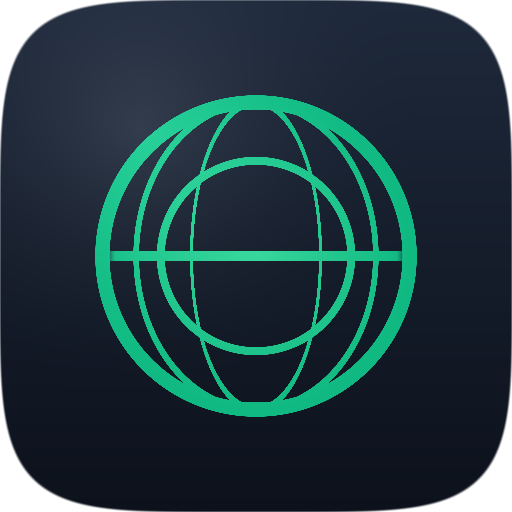
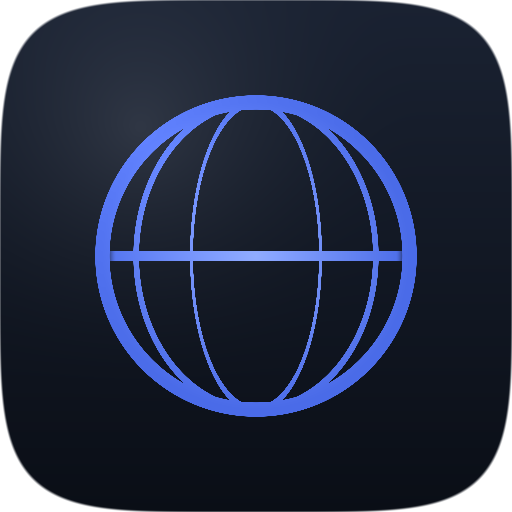
style: 换配色 —— 祖母绿 → 雾蓝紫
旧版的祖母绿饱和度太高、辉光又重，整体偏"电竞外设"。新版：

- 底色改冷灰蓝（#0B0E14），比原来的纯黑多一点色相，卡片与线条跟着挪
- 品牌色换成雾蓝紫 #6B8AFD（渐变亮端 #8AA4FF），辉光收敛到只在「已连接」时出现
- 语义色一起降饱和：警告 #E4B363、危险 #E8756F，不再刺眼
- 规则页的「直连」标签从蓝改成青（#7FC8D8）：品牌色变成蓝之后，
  直连和代理两个标签会撞成同一个色
- 按钮上的文字色跟着换（#0A1230），保证浅色底上的对比度

同一套色值贯穿四处，少改一处就会立刻显得不搭，所以一起改：
- App 界面（app/ui/index.html）
- 落地页（docs/index.html）+ 文档里的令牌说明
- App 图标 —— 改 app/make-icon.py 的 RGB 常量并重新生成三档尺寸
- 社交预览图（重新渲染）+ README 徽章的 shields 色值

验证：Playwright 逐页截图看（连接页 / 规则页 / 落地页），控制台 0 报错；
205 个测试通过。App 已用新图标重新打包。

Changed region(s): [[0.1875, 0.1875, 0.8125, 0.8125]]

diff --git a/app/ui/index.html b/app/ui/index.html
@@ -14,22 +14,22 @@
      --------------------------------------------------------------- */
   :root {
     /* 层次：越靠近内容的越亮，靠"表面明度"而不是描边来分层 */
-    --bg:        #0a0c11;
-    --surface:   #12151d;
-    --surface-2: #171b25;
-    --surface-3: #1e2330;
-    --line:      #242a36;
-    --line-soft: #1c222c;
+    --bg:        #0B0E14;
+    --surface:   #12161F;
+    --surface-2: #181D28;
+    --surface-3: #212734;
+    --line:      #252C3A;
+    --line-soft: #1B212C;
 
-    --text:      #eef1f6;
-    --text-dim:  #8b93a3;
-    --text-faint:#5c6474;
+    --text:      #E9EDF6;
+    --text-dim:  #8B94A7;
+    --text-faint:#5A6478;
 
-    --brand:     #3ddc97;   /* 与 App 图标同色 */
-    --brand-dim: #1f8f63;
-    --info:      #5b8cff;
-    --warn:      #f2b544;
-    --danger:    #ff6b6b;
+    --brand:     #6B8AFD;   /* 与 App 图标同色 */
+    --brand-dim: #3F5BD6;
+    --info:      #6B8AFD;
+    --warn:      #E4B363;
+    --danger:    #E8756F;
 
     --r-lg: 16px;
     --r-md: 11px;
@@ -44,7 +44,7 @@
   body {
     margin: 0;
     background:
-      radial-gradient(1200px 600px at 50% -20%, rgba(61,220,151,.055), transparent 60%),
+      radial-gradient(1200px 600px at 50% -20%, rgba(107,138,253,.055), transparent 60%),
       var(--bg);
     color: var(--text);
     font: 14px/1.6 -apple-system, "PingFang SC", "SF Pro Text", "Helvetica Neue", sans-serif;
@@ -74,11 +74,11 @@
   }
   .pill i { width: 6px; height: 6px; border-radius: 50%; background: var(--text-faint);
             transition: background .25s, box-shadow .25s; }
-  .pill.ok    { color: #a9f0cf; border-color: rgba(61,220,151,.35); background: rgba(61,220,151,.10); }
+  .pill.ok    { color: #B9C8FF; border-color: rgba(107,138,253,.35); background: rgba(107,138,253,.10); }
   .pill.ok i  { background: var(--brand); box-shadow: 0 0 8px var(--brand); }
-  .pill.busy  { color: #cfe0ff; border-color: rgba(91,140,255,.35); background: rgba(91,140,255,.10); }
+  .pill.busy  { color: #CFDCFF; border-color: rgba(107,138,253,.35); background: rgba(107,138,253,.10); }
   .pill.busy i{ background: var(--info); box-shadow: 0 0 8px var(--info); animation: breathe 1.4s ease-in-out infinite; }
-  .pill.warn  { color: #ffe0ae; border-color: rgba(242,181,68,.35); background: rgba(242,181,68,.10); }
+  .pill.warn  { color: #F2DCB4; border-color: rgba(242,181,68,.35); background: rgba(242,181,68,.10); }
   .pill.warn i{ background: var(--warn); box-shadow: 0 0 8px var(--warn); }
   @keyframes breathe { 0%,100% { opacity: 1 } 50% { opacity: .3 } }
   .ver { font: 11px ui-monospace, SFMono-Regular, Menlo, monospace; color: var(--text-faint); }
@@ -165,34 +165,34 @@
     display: inline-flex; align-items: center; gap: 7px;
     transition: background .16s, border-color .16s, transform .1s, opacity .16s;
   }
-  button.btn:hover:not(:disabled) { background: var(--surface-3); border-color: #2d3442; }
+  button.btn:hover:not(:disabled) { background: var(--surface-3); border-color: #2E3646; }
   button.btn:active:not(:disabled) { transform: translateY(1px); }
   button.btn:disabled { opacity: .45; cursor: default; }
   button.btn svg { width: 15px; height: 15px; stroke: currentColor; fill: none;
                    stroke-width: 1.7; stroke-linecap: round; stroke-linejoin: round; }
   button.btn.primary {
-    background: linear-gradient(180deg, #46e6a3, var(--brand)); color: #06231a;
+    background: linear-gradient(180deg, #8AA4FF, var(--brand)); color: #0A1230;
     border-color: rgba(0,0,0,.25); font-weight: 650; width: 100%;
     justify-content: center; padding: 14px; font-size: 14.5px; border-radius: 13px;
-    box-shadow: 0 8px 22px -10px rgba(61,220,151,.7), inset 0 1px 0 rgba(255,255,255,.25);
+    box-shadow: 0 8px 22px -10px rgba(107,138,253,.7), inset 0 1px 0 rgba(255,255,255,.25);
   }
   /* 主按钮的悬停/按下必须**自己声明**：通用规则 `button.btn:hover:not(:disabled)`
      权重比 `button.btn.primary` 高（多一个 :not 伪类），会把绿色渐变盖成深灰——
      表现就是"悬停后按钮变灰、底部还留着一道绿光"（用户截图报过）。 */
   button.btn.primary:hover:not(:disabled) {
-    background: linear-gradient(180deg, #55f0ae, #3ee6a0);
+    background: linear-gradient(180deg, #9BB2FF, #7E9BFF);
     border-color: rgba(0,0,0,.25);
   }
   button.btn.primary:active:not(:disabled) {
-    background: linear-gradient(180deg, #3ddc97, #35cd8c);
+    background: linear-gradient(180deg, #6B8AFD, #5A7BEC);
   }
   button.btn.primary.off {
     background: var(--surface-3); color: var(--text); border-color: var(--line);
     box-shadow: none; font-weight: 550;
   }
   button.btn.primary.off:hover:not(:disabled) { background: var(--surface-3); filter: brightness(1.15); }
-  button.btn.danger { color: #ffb3b3; border-color: rgba(255,107,107,.28); }
-  button.btn.danger:hover:not(:disabled) { background: rgba(255,107,107,.12); }
+  button.btn.danger { color: #EBA3A3; border-color: rgba(232,117,111,.28); }
+  button.btn.danger:hover:not(:disabled) { background: rgba(232,117,111,.12); }
   .spin { width: 13px; height: 13px; border-radius: 50%;
           border: 2px solid rgba(0,0,0,.25); border-top-color: currentColor;
           animation: rot .7s linear infinite; }
@@ -222,7 +222,7 @@
      --------------------------------------------------------------- */
   .switch { display: flex; align-items: center; gap: 12px; padding: 9px 0; cursor: pointer; }
   .switch:hover .label { color: var(--text); }
-  .switch:hover .track { border-color: #3a4252; }
+  .switch:hover .track { border-color: #3C4557; }
   .switch:active .track > i { transform: scale(.9); }
   .switch.on:active .track > i { transform: translateX(14px) scale(.9); }
   .switch + .switch { border-top: 1px solid var(--line-soft); }
@@ -230,9 +230,9 @@
                    background: var(--surface-3); border: 1px solid var(--line);
                    position: relative; transition: background .22s, border-color .22s; }
   .switch .track > i { position: absolute; top: 2px; left: 2px; width: 14px; height: 14px;
-                       border-radius: 50%; background: #6b7280;
+                       border-radius: 50%; background: #6E7686;
                        transition: transform .24s cubic-bezier(.22,1,.36,1), background .22s; }
-  .switch.on .track { background: rgba(61,220,151,.22); border-color: rgba(61,220,151,.5); }
+  .switch.on .track { background: rgba(107,138,253,.22); border-color: rgba(107,138,253,.5); }
   .switch.on .track > i { transform: translateX(14px); background: var(--brand); }
   .switch .label { flex: 1; font-size: 13px; }
   .switch .hint { color: var(--text-faint); font-size: 11.5px; line-height: 1.45; }
@@ -249,9 +249,9 @@
          max-height: 200px; overflow: auto; }
   #log div { padding: 1.5px 0; color: var(--text-faint); white-space: pre-wrap;
              word-break: break-all; }
-  #log div.err { color: #ffb3b3; }
-  #log div.warn { color: #ffd894; }
-  #log time { color: #414855; margin-right: 7px; }
+  #log div.err { color: #EBA3A3; }
+  #log div.warn { color: #EDD3A0; }
+  #log time { color: #434B5A; margin-right: 7px; }
 
   /* ---------------------------------------------------------------
      表单
@@ -269,10 +269,10 @@
     border: 1px solid var(--line); background: var(--surface-2); color: var(--text);
     font-size: 13px; font-family: inherit;
   }
-  select:hover { border-color: #333b4a; }
-  input:focus { outline: none; border-color: rgba(91,140,255,.6);
-                box-shadow: 0 0 0 3px rgba(91,140,255,.13); }
-  input:hover:not(:focus) { border-color: #333b4a; }
+  select:hover { border-color: #353E50; }
+  input:focus { outline: none; border-color: rgba(107,138,253,.6);
+                box-shadow: 0 0 0 3px rgba(107,138,253,.13); }
+  input:hover:not(:focus) { border-color: #353E50; }
 
   /* ---------------------------------------------------------------
      规则页
@@ -286,9 +286,9 @@
   .rule-item .tag { font-size: 10.5px; letter-spacing: .06em; padding: 2px 7px;
                     border-radius: 6px; border: 1px solid var(--line);
                     color: var(--text-dim); margin-right: 9px; }
-  .rule-item .tag.DIRECT { color: #8fd4ff; border-color: rgba(91,140,255,.32); }
-  .rule-item .tag.PROXY  { color: var(--brand); border-color: rgba(61,220,151,.32); }
-  .rule-item .tag.REJECT { color: #ffb3b3; border-color: rgba(255,107,107,.3); }
+  .rule-item .tag.DIRECT { color: #7FC8D8; border-color: rgba(107,138,253,.32); }
+  .rule-item .tag.PROXY  { color: var(--brand); border-color: rgba(107,138,253,.32); }
+  .rule-item .tag.REJECT { color: #EBA3A3; border-color: rgba(232,117,111,.3); }
   .empty { color: var(--text-faint); font-size: 12.5px; padding: 14px 0; }
   .rs-meta { font-size: 11.5px; color: var(--text-faint); font-variant-numeric: tabular-nums; }
   .hint { color: var(--text-dim); font-size: 12.5px; line-height: 1.65; margin: 0; }
@@ -326,8 +326,8 @@
 
   .banner { display: flex; gap: 10px; align-items: flex-start;
             border-radius: var(--r-md); padding: 11px 14px; margin-bottom: 14px;
-            border: 1px solid rgba(255,107,107,.28); background: rgba(255,107,107,.09);
-            color: #ffc4c4; font-size: 12.5px; }
+            border: 1px solid rgba(232,117,111,.28); background: rgba(232,117,111,.09);
+            color: #EFB8B8; font-size: 12.5px; }
   .banner svg { width: 16px; height: 16px; flex: none; margin-top: 1px;
                 stroke: var(--danger); fill: none; stroke-width: 1.8;
                 stroke-linecap: round; stroke-linejoin: round; }
@@ -336,7 +336,7 @@
   /* 骨架屏：第一次拿到状态前别闪一排 "—" */
   body:not(.ready) .v {
     color: transparent; border-radius: 5px; min-width: 64px;
-    background: linear-gradient(90deg, #1b202b 25%, #232937 50%, #1b202b 75%);
+    background: linear-gradient(90deg, #191E29 25%, #242B3A 50%, #191E29 75%);
     background-size: 200% 100%; animation: shimmer 1.4s linear infinite;
   }
   @keyframes shimmer { from { background-position: 200% 0 } to { background-position: -200% 0 } }
@@ -763,7 +763,7 @@ function drawSpark() {
     ctx.beginPath();
     ctx.moveTo(0, h - 6);
     ctx.lineTo(w, h - 6);
-    ctx.strokeStyle = "rgba(61,220,151,.22)";
+    ctx.strokeStyle = "rgba(107,138,253,.22)";
     ctx.lineWidth = 1.5;
     ctx.stroke();
     return;
@@ -775,19 +775,19 @@ function drawSpark() {
   ctx.beginPath();
   points.forEach(([x, y], i) => i ? ctx.lineTo(x, y) : ctx.moveTo(x, y));
   const grad = ctx.createLinearGradient(0, 0, 0, h);
-  grad.addColorStop(0, "rgba(61,220,151,.30)");
-  grad.addColorStop(1, "rgba(61,220,151,0)");
+  grad.addColorStop(0, "rgba(107,138,253,.30)");
+  grad.addColorStop(1, "rgba(107,138,253,0)");
   ctx.lineTo(w, h); ctx.lineTo(0, h); ctx.closePath();
   ctx.fillStyle = grad; ctx.fill();
 
   ctx.beginPath();
   points.forEach(([x, y], i) => i ? ctx.lineTo(x, y) : ctx.moveTo(x, y));
-  ctx.strokeStyle = "#3ddc97"; ctx.lineWidth = 2; ctx.lineJoin = "round";
+  ctx.strokeStyle = "#6B8AFD"; ctx.lineWidth = 2; ctx.lineJoin = "round";
   ctx.stroke();
 
   const [lx, ly] = points[points.length - 1];
   ctx.beginPath(); ctx.arc(lx, ly, 3, 0, Math.PI * 2);
-  ctx.fillStyle = "#3ddc97"; ctx.fill();
+  ctx.fillStyle = "#6B8AFD"; ctx.fill();
 }
 
 /* ---------- 渲染 ---------- */

diff --git a/tools/social-preview.html b/tools/social-preview.html
@@ -12,15 +12,15 @@
 <meta charset="utf-8">
 <style>
   :root {
-    --bg: #0a0c11; --surface: #12151d; --surface-2: #171b25; --line: #242a36;
-    --text: #eef1f6; --dim: #8b93a3; --faint: #5c6474; --brand: #3ddc97;
+    --bg: #0B0E14; --surface: #12161F; --surface-2: #181D28; --line: #252C3A;
+    --text: #E9EDF6; --dim: #8B94A7; --faint: #5A6478; --brand: #6B8AFD;
   }
   * { box-sizing: border-box; margin: 0; padding: 0; }
   html, body { width: 1280px; height: 640px; overflow: hidden; }
   body {
     background:
-      radial-gradient(900px 460px at 22% 6%, rgba(61,220,151,.13), transparent 60%),
-      radial-gradient(700px 420px at 96% 100%, rgba(61,220,151,.06), transparent 62%),
+      radial-gradient(900px 460px at 22% 6%, rgba(107,138,253,.13), transparent 60%),
+      radial-gradient(700px 420px at 96% 100%, rgba(107,138,253,.06), transparent 62%),
       var(--bg);
     color: var(--text);
     font: 16px/1.6 -apple-system, "PingFang SC", "SF Pro Text", "Helvetica Neue", sans-serif;
@@ -33,9 +33,9 @@
   .mark { display: flex; align-items: center; gap: 15px; margin-bottom: 40px; }
   .glyph {
     width: 60px; height: 60px; border-radius: 18px; display: grid; place-items: center;
-    background: linear-gradient(160deg, rgba(61,220,151,.26), rgba(61,220,151,.06));
-    border: 1px solid rgba(61,220,151,.3);
-    box-shadow: 0 14px 40px -16px rgba(61,220,151,.5), inset 0 1px 0 rgba(255,255,255,.07);
+    background: linear-gradient(160deg, rgba(107,138,253,.26), rgba(107,138,253,.06));
+    border: 1px solid rgba(107,138,253,.3);
+    box-shadow: 0 14px 40px -16px rgba(107,138,253,.5), inset 0 1px 0 rgba(255,255,255,.07);
   }
   .glyph svg { width: 32px; height: 32px; stroke: var(--brand); fill: none;
                stroke-width: 1.7; stroke-linecap: round; stroke-linejoin: round; }
@@ -49,7 +49,7 @@
   .sub code {
     font: 15px ui-monospace, SFMono-Regular, Menlo, monospace;
     background: var(--surface-2); border: 1px solid var(--line);
-    padding: 2px 7px; border-radius: 7px; color: #cfe9dd;
+    padding: 2px 7px; border-radius: 7px; color: #D3DDF5;
   }
   .stats { display: flex; gap: 34px; margin-top: 42px; }
   .stat .v { font: 25px/1 ui-monospace, SFMono-Regular, Menlo, monospace;
@@ -65,9 +65,9 @@
   .ring { width: 168px; height: 168px; margin: 0 auto 22px; position: relative;
           display: grid; place-items: center; }
   .ring .halo { position: absolute; inset: 0; border-radius: 50%;
-                box-shadow: 0 0 70px 10px rgba(61,220,151,.3); }
+                box-shadow: 0 0 70px 10px rgba(107,138,253,.3); }
   .ring svg { width: 132px; height: 132px; transform: rotate(-90deg); }
-  .ring .track { fill: none; stroke: #1d2431; stroke-width: 3; }
+  .ring .track { fill: none; stroke: #1B2130; stroke-width: 3; }
   .ring .arc { fill: none; stroke: var(--brand); stroke-width: 3; stroke-linecap: round;
                stroke-dasharray: 377; stroke-dashoffset: 34; }
   .ring .face { position: absolute; display: grid; place-items: center; }
@@ -81,7 +81,7 @@
   .row { display: flex; justify-content: space-between; align-items: center;
          font-size: 13.5px; padding: 12px 2px; border-bottom: 1px solid rgba(36,42,54,.6); }
   .row span:first-child { color: var(--faint); }
-  .row span:last-child { color: #c9d2e0; font-family: ui-monospace, Menlo, monospace; font-size: 12.5px; }
+  .row span:last-child { color: #C6D0E2; font-family: ui-monospace, Menlo, monospace; font-size: 12.5px; }
   .row .ok { color: var(--brand) !important; }
 </style>
 </head>

diff --git a/docs/index.html b/docs/index.html
@@ -14,13 +14,13 @@
 <meta name="twitter:card" content="summary_large_image">
 <style>
   :root {
-    --bg: #0a0c11; --surface: #12151d; --surface-2: #171b25; --line: #242a36;
-    --text: #eef1f6; --dim: #8b93a3; --faint: #5c6474; --brand: #3ddc97;
+    --bg: #0B0E14; --surface: #12161F; --surface-2: #181D28; --line: #252C3A;
+    --text: #E9EDF6; --dim: #8B94A7; --faint: #5A6478; --brand: #6B8AFD;
   }
   * { box-sizing: border-box; }
   body {
     margin: 0; background:
-      radial-gradient(1100px 520px at 50% -12%, rgba(61,220,151,.07), transparent 62%),
+      radial-gradient(1100px 520px at 50% -12%, rgba(107,138,253,.07), transparent 62%),
       var(--bg);
     color: var(--text);
     font: 16px/1.7 -apple-system, "PingFang SC", "SF Pro Text", "Helvetica Neue", sans-serif;
@@ -37,7 +37,7 @@
   code {
     font: 13px ui-monospace, SFMono-Regular, Menlo, monospace;
     background: var(--surface-2); border: 1px solid var(--line);
-    padding: 1px 6px; border-radius: 6px; color: #cfe9dd;
+    padding: 1px 6px; border-radius: 6px; color: #D3DDF5;
   }
   section { padding: 56px 0; border-top: 1px solid var(--line); }
   section:first-of-type { border-top: none; }

diff --git a/app/make-icon.py b/app/make-icon.py
@@ -23,10 +23,10 @@ import png  # 来自 pypng，纯 Python
 
 DEFAULT_SIZE = 1024
 
-BG_TOP = (30, 41, 59)  # slate-800
-BG_BOTTOM = (12, 17, 27)  # 更深的底
-GLOBE = (52, 211, 153)  # emerald-400
-GLOBE_DIM = (16, 185, 129)  # emerald-500
+BG_TOP = (26, 34, 50)  # 冷灰蓝，和界面底色同一族
+BG_BOTTOM = (10, 14, 22)  # 更深的底
+GLOBE = (140, 168, 255)  # 品牌色亮端 #8CA8FF
+GLOBE_DIM = (74, 107, 232)  # 品牌色暗端 #4A6BE8
 
 
 def smoothstep(edge0: float, edge1: float, x: float) -> float:

diff --git a/README.md b/README.md
@@ -2,13 +2,13 @@
 
 <p>
   <a href="https://github.com/cinqs/yi/actions/workflows/ci.yml"><img alt="CI" src="https://img.shields.io/github/actions/workflow/status/cinqs/yi/ci.yml?branch=main&style=flat-square&label=CI"></a>
-  <a href="https://cinqs.github.io/yi"><img alt="Docs" src="https://img.shields.io/badge/docs-GitHub%20Pages-3ddc97?style=flat-square"></a>
-  <a href="LICENSE"><img alt="License" src="https://img.shields.io/badge/license-MIT-3ddc97?style=flat-square"></a>
+  <a href="https://cinqs.github.io/yi"><img alt="Docs" src="https://img.shields.io/badge/docs-GitHub%20Pages-6B8AFD?style=flat-square"></a>
+  <a href="LICENSE"><img alt="License" src="https://img.shields.io/badge/license-MIT-6B8AFD?style=flat-square"></a>
   <img alt="Python" src="https://img.shields.io/badge/python-3.12+-3776ab?style=flat-square&logo=python&logoColor=white">
   <img alt="macOS" src="https://img.shields.io/badge/macOS-11+-000000?style=flat-square&logo=apple&logoColor=white">
-  <img alt="Runtime deps" src="https://img.shields.io/badge/runtime%20deps-0-3ddc97?style=flat-square">
-  <img alt="App size" src="https://img.shields.io/badge/app-%3C1%20MB-3ddc97?style=flat-square">
-  <a href="https://github.com/cinqs/yi/wiki"><img alt="Wiki" src="https://img.shields.io/badge/wiki-%E4%B8%AD%E6%96%87-3ddc97?style=flat-square"></a>
+  <img alt="Runtime deps" src="https://img.shields.io/badge/runtime%20deps-0-6B8AFD?style=flat-square">
+  <img alt="App size" src="https://img.shields.io/badge/app-%3C1%20MB-6B8AFD?style=flat-square">
+  <a href="https://github.com/cinqs/yi/wiki"><img alt="Wiki" src="https://img.shields.io/badge/wiki-%E4%B8%AD%E6%96%87-6B8AFD?style=flat-square"></a>
 </p>
 
 **驿 (Yi)** 帮你用**一年几十块**跑起一台属于自己的代理：

diff --git a/docs/design.md b/docs/design.md
@@ -8,11 +8,17 @@
 颜色只在一层定义，组件里不出现裸色值：
 
 ```
-背景     --bg #0a0c11      表面 --surface / --surface-2 / --surface-3
-文字     --text #eef1f6    --text-dim / --text-faint
-品牌     --brand #3ddc97   （与 App 图标同色）
-语义     --info #5b8cff    --warn #f2b544    --danger #ff6b6b
+背景     --bg #0B0E14      表面 --surface / --surface-2 / --surface-3
+文字     --text #E9EDF6    --text-dim / --text-faint
+品牌     --brand #6B8AFD   （与 App 图标同色）
+语义     --info #6B8AFD    --warn #E4B363    --danger #E8756F
 ```
+
+**为什么是这一套**：底色是**冷灰蓝**（近黑带一点蓝），品牌色是**雾蓝紫**。
+换成这一版的理由是旧版的祖母绿饱和度太高、辉光又重，整体偏"电竞外设"；
+新配色把饱和度压下来、辉光收敛到只在"已连接"时出现，层次交给表面明度和
+发丝线去做。同一套色值贯穿 App / 落地页 / 图标 / 社交预览图 —— 任何一处
+单独改都会立刻显得不搭。
 
 **分层靠"表面明度"而不是描边**：`surface → surface-2 → surface-3` 递进，
 再加 1px 发丝线、极淡的顶部内高光、分层阴影。

diff --git a/CHANGELOG.md b/CHANGELOG.md
@@ -6,6 +6,10 @@
 ## [Unreleased]
 
 ### 变更
+- **换配色**：祖母绿 → **雾蓝紫**（`#6B8AFD`），底色改成冷灰蓝。旧版的绿色
+  饱和度太高、辉光又重，整体偏"电竞外设"；新的一版把饱和度压下来、辉光收敛到
+  只在「已连接」时出现。同一套色值贯穿 App、落地页、App 图标（重新生成）、
+  社交预览图（重新渲染）和 README 徽章 —— 少改一处就会显得不搭。
 - **默认配置不再写死 vSwitch / 安全组 ID**（改为留空 = 自动发现或自动创建）。
   这两个键本来就是"如果你有现成资源就复用"，把某个人账号下的资源当成默认值
   既会让新用户直接失败，也没有道理。填了 ID 的老配置不受影响。
